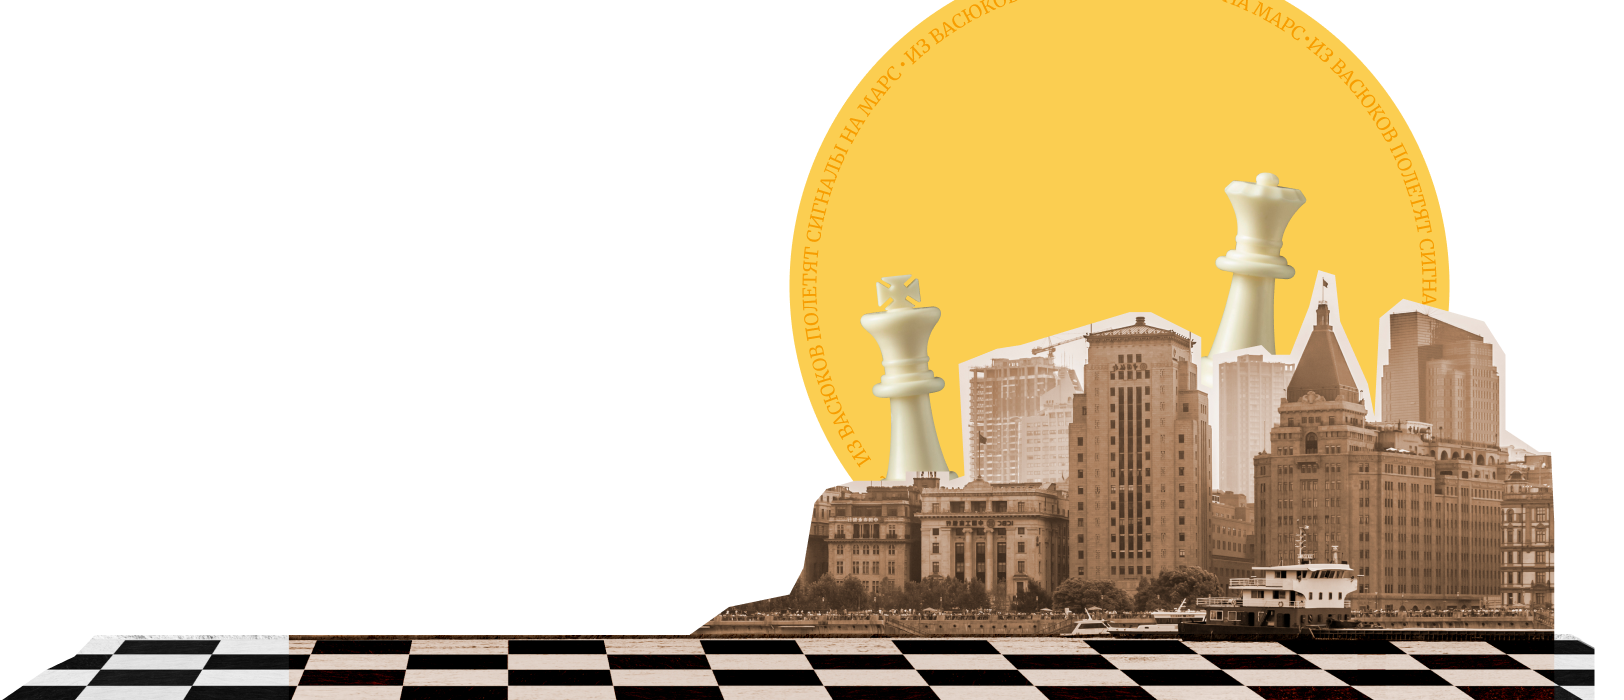
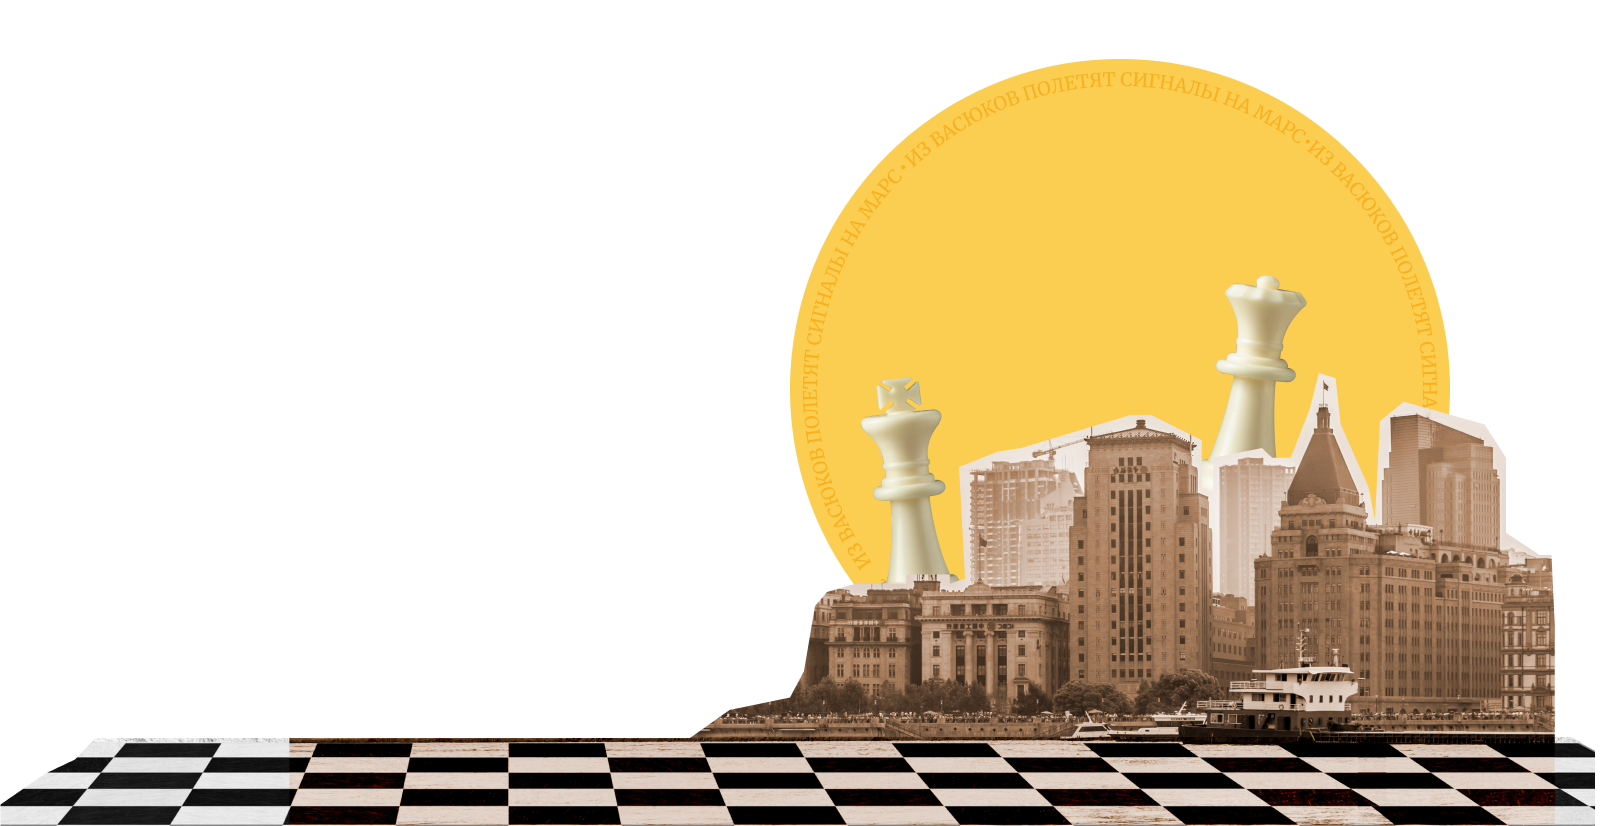
fix background

Changed region(s): [[0.0, 0.0, 0.9852, 1.0]]

diff --git a/src/components/top-background/top-background.module.css b/src/components/top-background/top-background.module.css
@@ -1,59 +1,63 @@
-.background {
-  position: absolute;
-  overflow: hidden;
-  top: 0;
-  left: 0;
-  width: 100%;
+.content .back_color, .content .back_img, .content .back_mask {
   height: 700px;
-  margin: auto;
+  width: 100%;
+  position: absolute;
+  top: 0;
 }
 
-.back_1 {
+.content .back_color {
   background-color: #e6dbcf;
-  background-image: url("../../images/Group_back.png");
-  background-repeat: no-repeat;
+}
+
+.content .back_img {
+  background: url("../../images/Group_back.png") no-repeat bottom center;
+  background-size: cover;
+}
+
+.content .front_img {
+  background: url("../../images/Group_front.png") no-repeat bottom center;
+  height: 105%;
+  width: 100%;
+  right: 0;
+  top: 0;
+  left: -25px;
+  bottom: 0px;
   position: absolute;
-  background-position: bottom center;
+  background-size: contain;
+}
+
+.content .back_mask {
+  background: url("../../images/background.png") no-repeat bottom center;
+  opacity: 0.25;
+  background-size: cover;
   width: 100%;
   height: 100%;
-}
-
-.back_2 {
-  background-image: url("../../images/background.png");
-  background-repeat: no-repeat;
-  position: absolute;
-  background-size: 100% 700px;
+  right: 0;
   top: 0;
   left: 0;
-  width: 100%;
-  height: 100%;
-  margin: auto;
-  opacity: 20%;
-}
-
-.back_3 {
-  background-image: url("../../images/Group_front.png");
-  background-repeat: no-repeat;
+  bottom: 0;
   position: absolute;
-  background-position: bottom center;
-  width: 99%;
-  height: 100%;
+}
+@media all and (max-width: 1400px) {
+  .content .back_img {
+    background-size: contain;
+  }
 }
 
 @media all and (max-width: 900px) {
-  .background {
+  .content .back_color, .content .back_img, .content .back_mask {
     height: 786px;
   }
 
-  .back_1 {
-    background-image: url("../../images/Group_back_mob.png");
-    background-size: contain;
+  .content .back_img {
+    background: url("../../images/Group_back_mob.png") no-repeat bottom center;
+    background-size: contain
   }
 
-  .back_3 {
-    background-image: url("../../images/Group_front_mob.png");
-    background-size: 100%;
-    background-position: left 102%;
+  .content .front_img {
+    background: url("../../images/Group_front_mob.png") no-repeat bottom center;
+    background-size: contain;
+    height: 102%;
+    left: auto;
   }
 }
-

diff --git a/src/components/top-background/top-background.js b/src/components/top-background/top-background.js
@@ -2,11 +2,12 @@ import styles from "./top-background.module.css";
 
 export default function TopBackground() {
   return (
-    <div className={styles.background}>
-      <div className={styles.back_1}></div>
-      <div className={styles.back_2}></div>
-      <div className={styles.back_3}></div>
-    </div>
+    <div className = {styles.content}>
+      <div className = {styles.back_color}>
+          <div className = {styles.back_img}></div>
+          <div className = {styles.back_mask}></div>
+          <div className = {styles.front_img}></div>
+      </div>
+  </div>
   );
 }
-

diff --git a/src/components/slogan/slogan.module.css b/src/components/slogan/slogan.module.css
@@ -10,6 +10,7 @@
   align-items: center;
   justify-content: center;
   padding: 18px 0;
+  z-index: 1;
 }
 
 .slogan {
